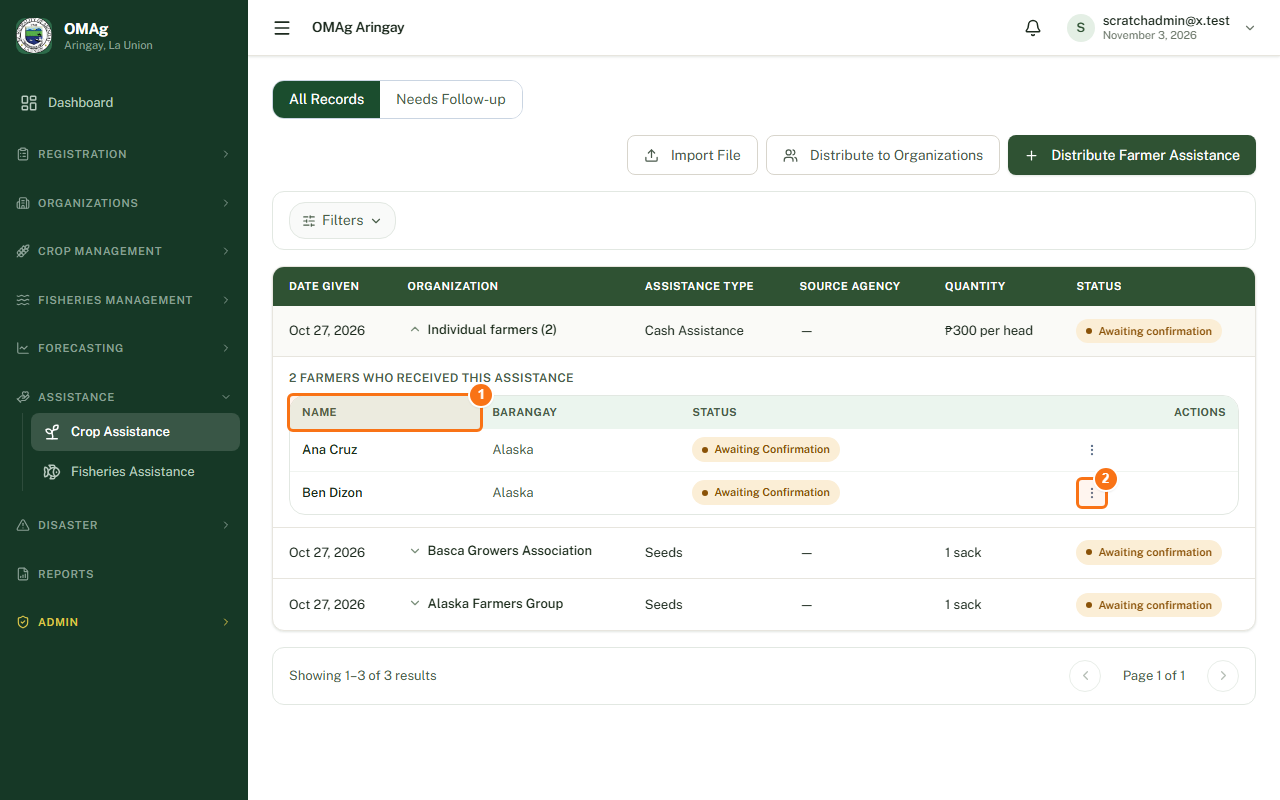
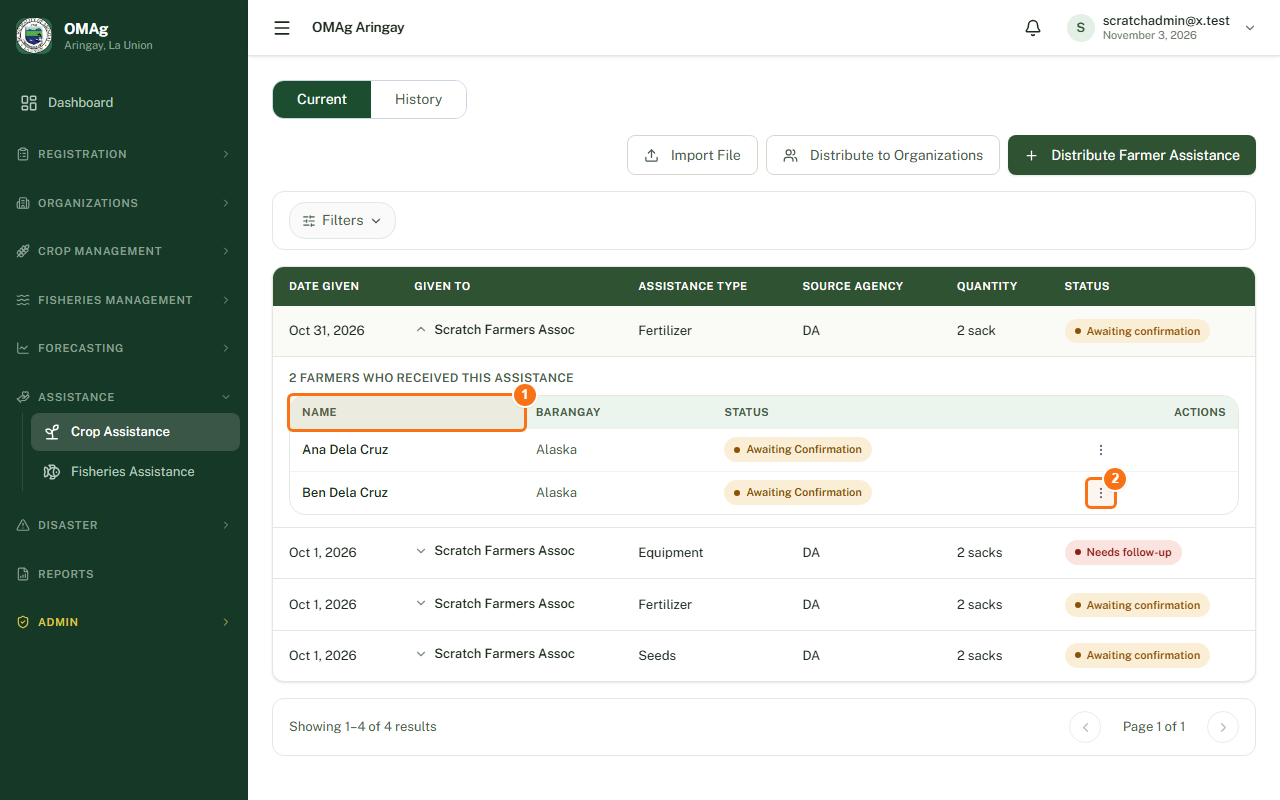
Assistance table: a distribution to selected people shows their names
On the staff Crop and Fisheries Assistance tables, a distribution given to selected farmers or fisherfolk (no organization) was just "Individual farmers (5)"; the names showed only after opening the row. The column, now "Given To", shows the name (one), the names (up to three) or the first two and how many more. A distribution to an organization still shows the organization. The two manual pictures of the table are retaken and the manual and Help wording updated.

diff --git a/oma-frontend/src/pages/AssistanceManagement/DistributionsTable.jsx b/oma-frontend/src/pages/AssistanceManagement/DistributionsTable.jsx
@@ -9,8 +9,8 @@ import StatusPill from '../../components/UI/StatusPill.jsx'
 import { formatAssistanceQuantity } from './assistanceFieldHelpers.js'
 import { agenciesText, distributionRowLabel } from './distributionsTableRows.js'
 
-// The staff view of assistance on the Crop and Fisheries Assistance pages: one row per distribution, named after the organization that
-// gave it (or "Individual farmers (5)" when it was given to selected people), dropping down to the members who benefited. A distribution
+// The staff view of assistance on the Crop and Fisheries Assistance pages: one row per distribution, named after the organization it went to
+// (or the farmers / fisherfolk themselves when it was given to selected people), dropping down to the members who benefited. A distribution
 // cannot be cancelled from here; a member's own record can be viewed, edited while that is allowed, or marked resolved.
 //   url       the staff distributions list (interventions/.../distributions/)
 //   noun      'farmers' | 'fisherfolk'
@@ -23,7 +23,7 @@ const PAGE_SIZE = 10
 
 const COLUMNS = [
   { key: 'date_cell', label: 'Date Given' },
-  { key: 'who_cell', label: 'Organization' },
+  { key: 'who_cell', label: 'Given To' },
   { key: 'assistance_type', label: 'Assistance Type' },
   { key: 'agencies_cell', label: 'Source Agency' },
   { key: 'quantity_cell', label: 'Quantity' },
@@ -120,7 +120,7 @@ export default function DistributionsTable({ url, noun, filters, version = 0, on
         phoneTitleKey="name_title"
         phoneSubtitleKey="date_cell"
         expandedRowId={openId}
-        rowClickLabel={(r) => `Show the ${noun} who received this assistance from ${r.name_title}`}
+        rowClickLabel={(r) => `Show the ${noun} who received this assistance (${r.name_title})`}
         onRowClick={(r) => setOpenId((id) => (id === r.id ? null : r.id))}
         renderExpanded={(r) => <Members group={r} noun={noun} onMemberAction={onMemberAction} />}
         renderExpandedMobile={(r) => <Members group={r} noun={noun} onMemberAction={onMemberAction} />}

diff --git a/oma-frontend/src/pages/Help/helpContent.js b/oma-frontend/src/pages/Help/helpContent.js
@@ -179,7 +179,7 @@ export const SECTIONS = [
       },
       {
         q: 'How do I read the assistance table?',
-        a: 'Each row is one distribution, named after the organization that gave it, or Individual farmers (5) when it went to selected people. Click a row to drop down the members who benefited, with their barangay and status. The source agencies show the first three and then Others. A distribution cannot be cancelled from this table; a member\'s own record can be viewed, edited while it is still pending or awaiting confirmation, or marked resolved when it was reported as not received.',
+        a: 'Each row is one distribution, named after who it was given to: the organization, or the names of the farmers or fisherfolk when it went to selected people (the first two and how many more, when there are more than three). Click a row to drop down the members who benefited, with their barangay and status. The source agencies show the first three and then Others. A distribution cannot be cancelled from this table; a member\'s own record can be viewed, edited while it is still pending or awaiting confirmation, or marked resolved when it was reported as not received.',
       },
       {
         q: 'Why was a member blocked?',

diff --git a/oma-frontend/src/pages/AssistanceManagement/distributionsTableRows.js b/oma-frontend/src/pages/AssistanceManagement/distributionsTableRows.js
@@ -1,9 +1,14 @@
 import { agencyChipSummary } from './assistanceFieldHelpers.js'
 
 // What the staff Assistance table calls one distribution: the organization that gave it, or (given to selected people with no organization)
+// the people it went to: one name, up to three names, or two names and how many more. A distribution whose answer carries no names is
 // "Individual farmers (5)". Pure, so it can be tested on its own.
 export function distributionRowLabel(group, noun) {
   if (group.organization_name) return group.organization_name
+  const names = (group.members || []).map((m) => String(m.name || '').trim()).filter(Boolean)
+  if (names.length === 1) return names[0]
+  if (names.length > 1 && names.length <= 3) return names.join(', ')
+  if (names.length > 3) return `${names.slice(0, 2).join(', ')} and ${names.length - 2} more`
   const people = noun || 'people'
   const count = Number(group.member_count) || 0
   const word = count === 1 ? people.replace(/s$/, '') : people

diff --git a/oma-frontend/src/pages/Manual/manualScreens.js b/oma-frontend/src/pages/Manual/manualScreens.js
@@ -2591,7 +2591,7 @@ export default {
    {
     "n": 6,
     "label": "Columns",
-    "desc": "Date given, organization (or Individual farmers when it went to selected people), assistance type, source agency, quantity and status."
+    "desc": "Date given, who it was given to (the organization, or the names of the farmers when it went to selected people), assistance type, source agency, quantity and status."
    },
    {
     "n": 7,
